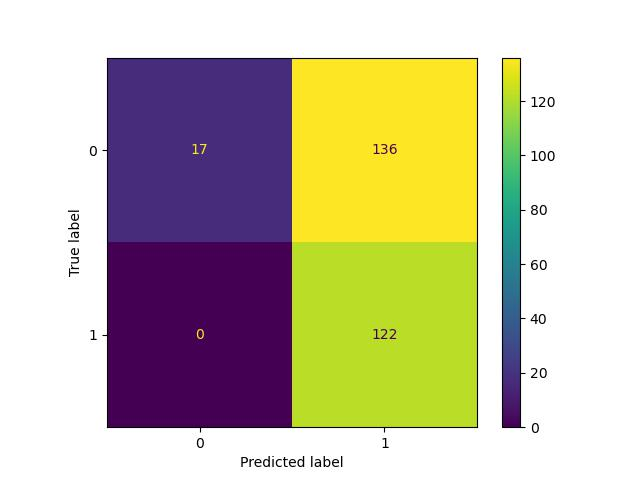
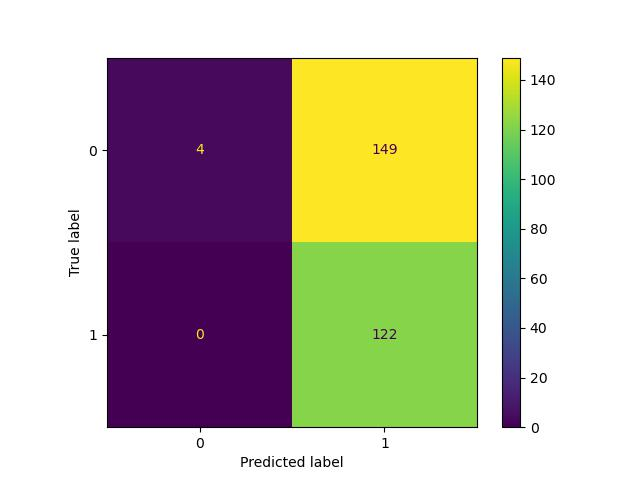
update program

diff --git a/backtester.py b/backtester.py
@@ -16,6 +16,7 @@ import pickle
 from tqdm import tqdm
 import pandas_datareader.data as web
 from stock_utils.bcolors import bcolors
+import sys
 
 class backtester(simulator):
 
@@ -35,6 +36,15 @@ class backtester(simulator):
         self.sell_perc = sell_perc
         self.stop_perc = stop_perc
         self.no_of_splits_available = no_of_splits
+
+        print('========== Back Test Data Parameters ============')
+        print(f'Start Date: {self.start_date}')
+        print(f'End Date: {self.end_date}')
+        print(f'Threshold: {self.threshold}')
+        print(f'Hold Till: {self.hold_till}')
+        print(f'Sell Perc: {self.sell_perc}')
+        print(f'Stop Perc: {self.stop_perc}')
+        print(f'No of Splits: {self.no_of_splits_available}')
 
         #current directory
         current_dir = os.getcwd()
@@ -188,16 +198,19 @@ if __name__ == "__main__":
     #stocks = pd.read_csv(os.path.join(current_dir, 'stock_list/hsi/hsi_all.csv'))['tickers'].tolist()
     
 
-    end_date = datetime.now() - timedelta(days = 1)
-    start_date = datetime.now() - timedelta(days = 365)
+    try:
+        start_date = datetime.strptime(sys.argv[1], "%Y-%m-%d")
+    except:
+        start_date = datetime.now() - timedelta(days=365)
+
+    try:
+        end_date = datetime.strptime(sys.argv[2], "%Y-%m-%d")
+    except:
+        end_date = datetime.now() - timedelta(days = 1) 
 
     """
     Back Test different parameters
     """  
-
-    backtester(stocks, LR_v1_predict, 100000, start_date = start_date, end_date = end_date, \
-        threshold = 0.5, sell_perc= 0.03, hold_till= 3, stop_perc= 0.03, no_of_splits=3).backtest()      
-
     backtester(stocks, LR_v1_predict, 100000, start_date = start_date, end_date = end_date, \
         threshold = 0.95, sell_perc= 0.1, hold_till= 21, stop_perc= 0.05, no_of_splits=3).backtest()
     
@@ -206,6 +219,9 @@ if __name__ == "__main__":
 
     backtester(stocks, LR_v1_predict, 100000, start_date = start_date, end_date = end_date, \
         threshold = 0.75, sell_perc= 0.04, hold_till= 5, stop_perc= 0.04, no_of_splits=3).backtest()
+    
+    backtester(stocks, LR_v1_predict, start_date = start_date, end_date = end_date, \
+        threshold = 0.5, sell_perc= 0.03, hold_till= 3, stop_perc= 0.03, no_of_splits=3).backtest()      
 
     
 

diff --git a/models/lr_run_training.py b/models/lr_run_training.py
@@ -27,16 +27,22 @@ import seaborn as sns
 
 class LR_training:
 
-    def __init__(self, model_veresion, threshold = 0.75, start_date = None, end_date = None, n = 10):
+    def __init__(self, model_version, threshold = 0.75, start_date = None, end_date = None, n = 10):
 
-        self.model_version = model_veresion
+        self.model_version = model_version
         self.threshold = threshold
 
         if start_date:
             self.start_date = start_date
         if end_date:
             self.end_date = end_date
-        
+
+        print('========== Training Data Parameters ============')
+        print(f'Start Date: {self.start_date}')
+        print(f'End Date: {self.end_date}')
+        print(f'Threshold: {self.threshold}')
+        print(f'N: {n}')
+
         # get stock tickers symobols
         current_dir = os.getcwd()
         hsi_tech = pd.read_csv(os.path.join(current_dir, 'stock_list/hsi/hsi_tech.csv'))['tickers'].tolist()
@@ -136,13 +142,29 @@ class LR_training:
         plt.savefig(f'{cm_path}/cm_thresholded_{self.model_version}.jpg')
         print(f'Figures saved in {cm_path}')
 
-
 if __name__ == "__main__":
-    # Train 4 years data
-    end_date = datetime.now() - timedelta(days = 365)
-    start_date = datetime.now() - timedelta(days=5*365)
+    # Setup parameters
+    try:
+        threshold = sys.argv[1]
+    except:
+        threshold = 0.95
+
+    try:
+        start_date = datetime.strptime(sys.argv[2], "%Y-%m-%d")
+    except:
+        start_date = datetime.now() - timedelta(days=4*365)
+
+    try:
+        end_date = datetime.strptime(sys.argv[3], "%Y-%m-%d")
+    except:
+        end_date = datetime.now() - timedelta(days = 1) 
+
+    try: 
+        n = int(sys.argv[4])
+    except:
+        n = 21
 
     # Start training
-    run_lr = LR_training('v2', threshold=0.75, start_date= start_date, end_date=end_date, n=10)
+    run_lr = LR_training('v2', threshold=0.95, start_date= start_date, end_date=end_date, n=n)
 
 

diff --git a/stockfinder.py b/stockfinder.py
@@ -3,7 +3,7 @@ from datetime import date, datetime
 import holidays
 import numpy as np
 import pandas as pd
-from models.lr_inference import LR_v1_sell, LR_v1_predict
+from models.lr_inference import LR_v1_sell, LR_predict
 import warnings
 from collections import OrderedDict
 warnings.filterwarnings("ignore")
@@ -14,9 +14,10 @@ from telegram.telegram import telegram
 
 class stockfinder:
 
-    def __init__(self, stocks_list, model, threshold = 0.75, sell_perc = 0.08, hold_till = 5, stop_perc = 0.08, no_of_recommendations = 3):
+    def __init__(self, stocks_list, model, model_version, threshold = 0.75, sell_perc = 0.08, hold_till = 5, stop_perc = 0.08, no_of_recommendations = 3):
         self.stocks = stocks_list
         self.model = model
+        self.model_version = model_version
         self.threshold = threshold
         self.sell_perc = sell_perc
         self.hold_till = hold_till
@@ -74,6 +75,6 @@ if __name__ == "__main__":
     stocks = list(np.unique(hsi_tech + hsi_main))       
     #stocks = pd.read_csv(os.path.join(current_dir, 'stock_list/hsi/hsi_all.csv'))['tickers'].tolist()
 
-    stockfinder(stocks, LR_v1_predict, threshold = 0.95, sell_perc = 0.1, hold_till= 21, stop_perc = 0.05, no_of_recommendations = 3).scan()
+    stockfinder(stocks, LR_predict, threshold = 0.95, sell_perc = 0.1, hold_till= 21, stop_perc = 0.05, no_of_recommendations = 3).scan()
 
 
